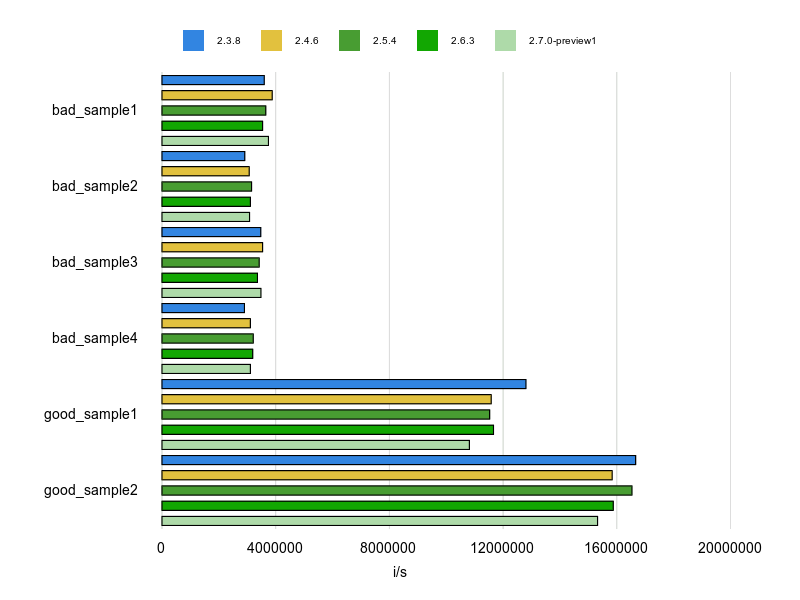
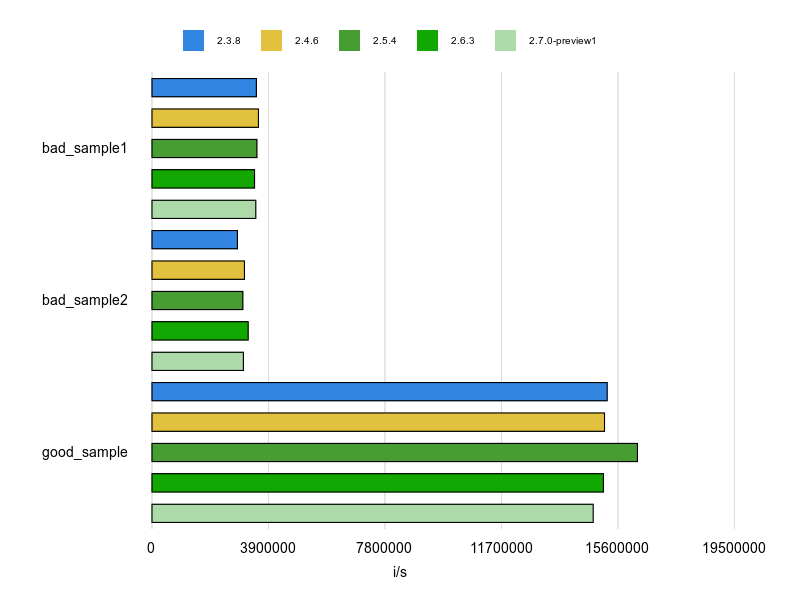
improve EndWith

diff --git a/benchmarks/end-with_vs_match.rb b/benchmarks/end-with_vs_match.rb
@@ -14,47 +14,27 @@ Benchmark.driver(output: output) do |x|
 
   x.prelude <<~RUBY
     REGEX = /bc\Z/
-    END_STR = ''
+    END_STR = 'bc'
 
-    def bad_sample_match1
-      'abc'.match?(/bc\Z/)
-    end
-
-    def bad_sample_match2
+    def bad_sample1
       'abc'.match?(REGEX)
     end
 
-    def bad_sample3
-      'abc' =~ /bc\Z/
-    end
-
-    def bad_sample4
-      'abc'.match(/bc\Z/)
-    end
-
-    def bad_sample5
+    def bad_sample2
       'abc' =~ REGEX
     end
 
-    def bad_sample6
+    def bad_sample3
       'abc'.match(REGEX)
     end
 
-    def end_with1
-      'abc'.end_with?('bc')
-    end
-
-    def end_with2
+    def good_sample
       'abc'.end_with?(END_STR)
     end
   RUBY
 
-  x.report %{ bad_sample_match1 }
-  x.report %{ bad_sample_match2 }
+  x.report %{ bad_sample1 }
+  x.report %{ bad_sample2 }
   x.report %{ bad_sample3 }
-  x.report %{ bad_sample4 }
-  x.report %{ bad_sample5 }
-  x.report %{ bad_sample6 }
-  x.report %{ end_with1 }
-  x.report %{ end_with2 }
+  x.report %{ good_sample }
 end

diff --git a/benchmarks/end-with.rb b/benchmarks/end-with.rb
@@ -14,37 +14,22 @@ Benchmark.driver(output: output) do |x|
 
   x.prelude <<~RUBY
     REGEX = /bc\Z/
-    END_STR = ''
+    END_STR = 'bc'
 
     def bad_sample1
-      'abc' =~ /bc\Z/
-    end
-
-    def bad_sample2
-      'abc'.match(/bc\Z/)
-    end
-
-    def bad_sample3
       'abc' =~ REGEX
     end
 
-    def bad_sample4
+    def bad_sample2
       'abc'.match(REGEX)
     end
 
-    def good_sample1
-      'abc'.end_with?('bc')
-    end
-
-    def good_sample2
+    def good_sample
       'abc'.end_with?(END_STR)
     end
   RUBY
 
   x.report %{ bad_sample1 }
   x.report %{ bad_sample2 }
-  x.report %{ bad_sample3 }
-  x.report %{ bad_sample4 }
-  x.report %{ good_sample1 }
-  x.report %{ good_sample2 }
+  x.report %{ good_sample }
 end
